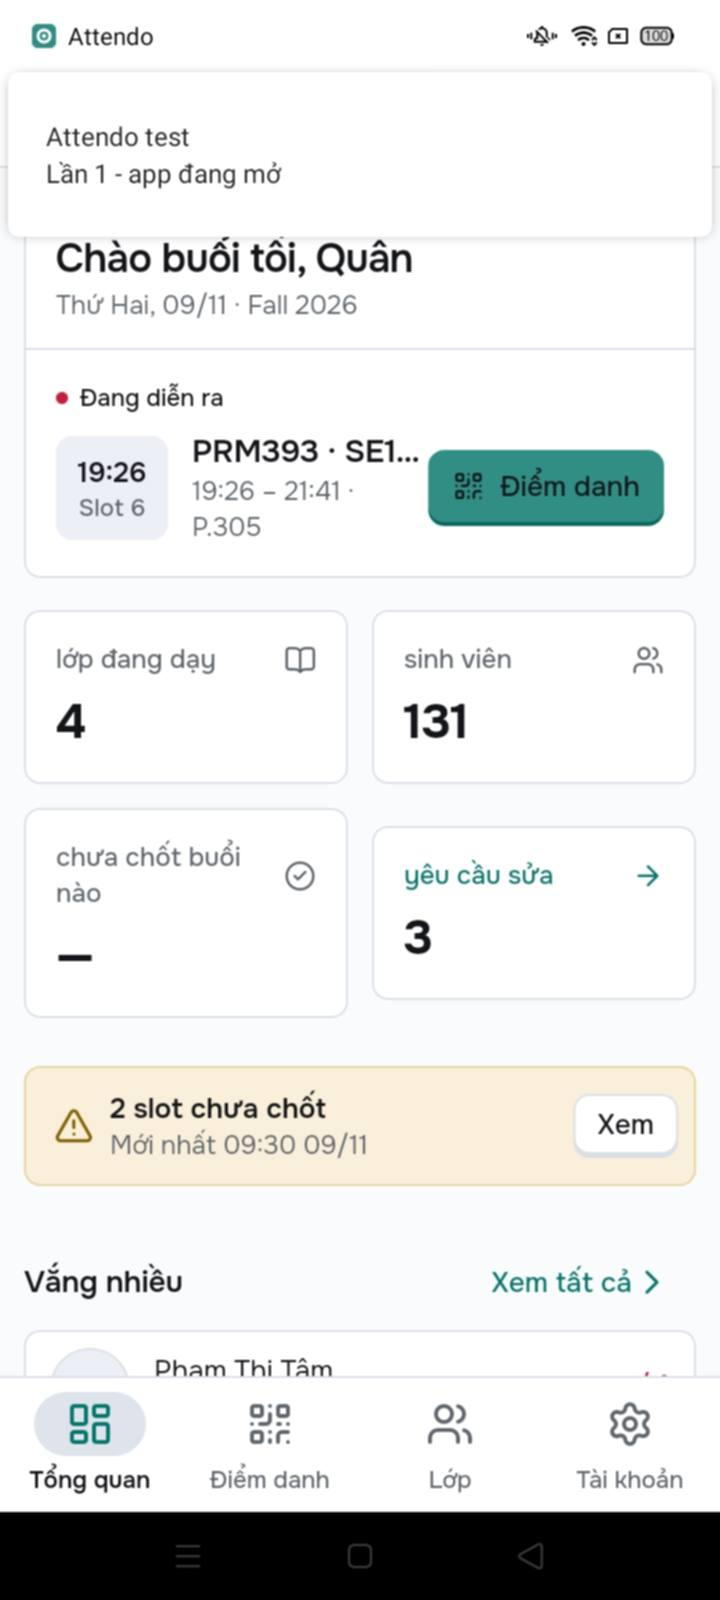
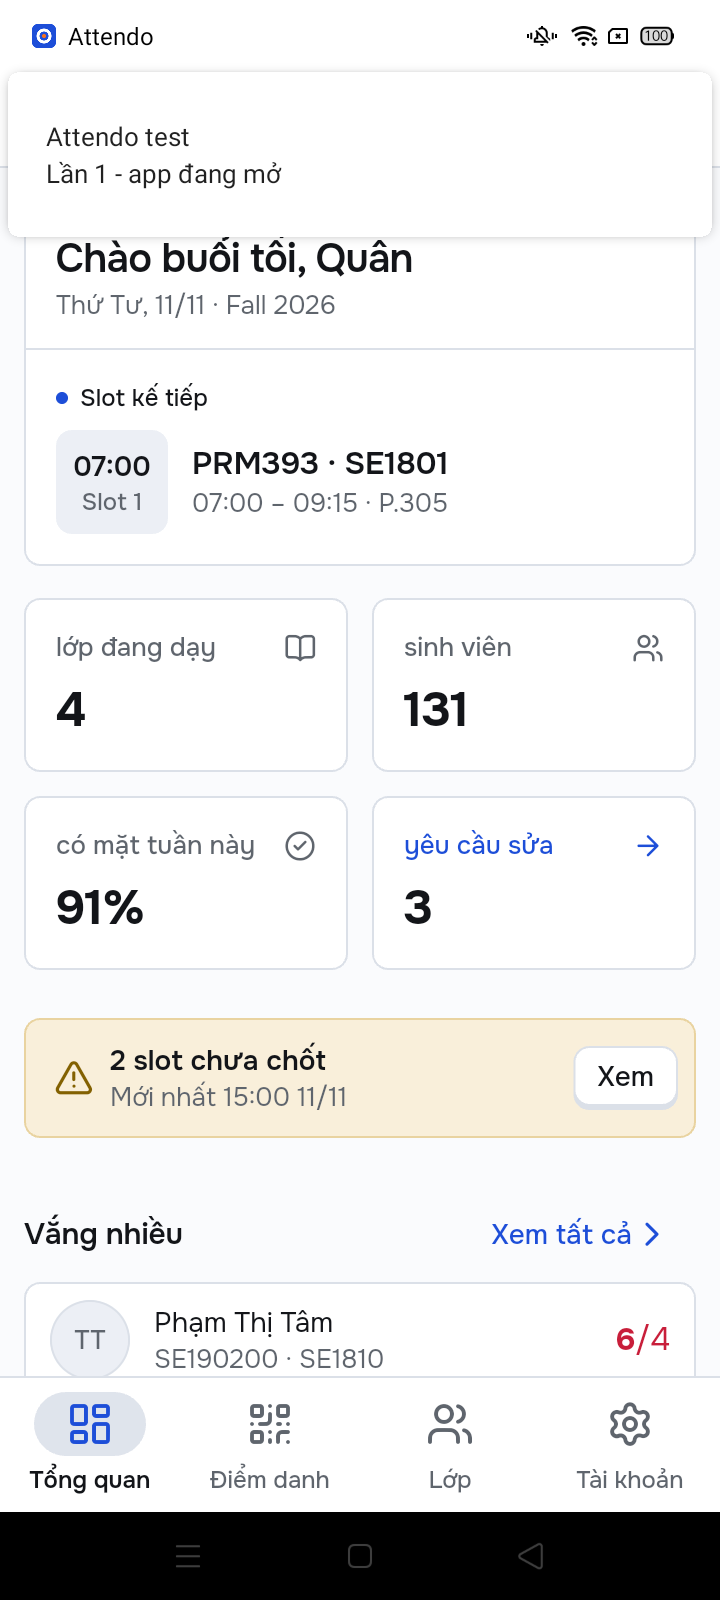
evidence: recapture FCM shots with the cobalt UI

diff --git a/evidence/fcm/README.md b/evidence/fcm/README.md
@@ -1,13 +1,18 @@
 # FCM: thông báo ở 3 trạng thái app (T5)
 
-Chạy thật ngày 09/11/2026, 20:15 đến 20:20, project `attendo-app-2611`, điện thoại Oppo CPH1931 (app Attendo
-đăng nhập quanm@fe.edu.vn). Gửi bằng Firebase console → Cloud Messaging → Compose notification →
-**Send test message** tới FCM token chép từ Khu demo của app. Ảnh do thien chụp.
+Chạy thật ngày 11/11/2026, 21:21 đến 21:35 (giờ Việt Nam), project `attendo-app-2611`, điện thoại Oppo CPH1931
+(Android, app Attendo 1.0.0 bản giao diện "Bản vẽ" cobalt, đăng nhập tài khoản giảng viên demo). Mỗi lần gửi
+chạy workflow GitHub Actions **"Demo: gửi FCM thử"**, workflow này dùng `tool/fcm/send.mjs` (Firebase Admin SDK,
+key nằm trong secret của repo) gửi tới mọi thiết bị của tài khoản đó. Ảnh chụp bằng
+`adb exec-out screencap` trên chính điện thoại, chụp liên tục khoảng 1 giây một khung và giữ khung có thông báo.
 
 | Ảnh | Trạng thái app | Thấy gì |
 |---|---|---|
-| `01-app-dang-mo.png` | Đang mở (foreground) | Thông báo "Lần 1 - app đang mở" hiện đè lên Tổng quan |
-| `02-app-o-nen-banner.png` | Ở nền (bấm Home) | Thông báo "Lần 2 - ở Home" hiện trên màn hình chính, biểu tượng có chấm đỏ |
-| `03-app-o-nen-thanh-thong-bao.png` | Ở nền | Tin "Lần 2" trong thanh thông báo |
-| `04-app-da-tat.png` | Đã tắt (vuốt khỏi đa nhiệm) | Tin "Lần 3 - app đã tắt" trong thanh thông báo, 20:20 |
-| `05-console-soan-thong-bao.png` | | Màn soạn thông báo trên console của project attendo-app-2611 (nội dung Lần 3) |
+| `01-app-dang-mo.png` | Đang mở (foreground) | Thông báo "Lần 1 - app đang mở" hiện đè lên Tổng quan, 21:21:41 (workflow chạy 21:21:27) |
+| `02-app-o-nen-banner.png` | Ở nền (bấm Home) | Thông báo "Lần 2 - ở Home" hiện trên màn hình chính, biểu tượng Attendo có chấm đỏ, 21:26:33 (workflow chạy 21:26:17) |
+| `03-app-o-nen-thanh-thong-bao.png` | Ở nền | Tin "Lần 1" và "Lần 2" trong thanh thông báo, 21:30 |
+| `04-app-da-tat.png` | Đã tắt (vuốt khỏi đa nhiệm, tiến trình app không còn chạy) | Tin "Lần 3 - app đã tắt" trong thanh thông báo, đến lúc 21:31:30 (workflow chạy 21:31:15), chụp 21:35 |
+| `05-console-soan-thong-bao.png` | | Ảnh từ lần chạy 09/11/2026 (gửi bằng Firebase console): màn soạn thông báo trên console của project attendo-app-2611 (nội dung Lần 3) |
+
+Trong ảnh 03 và 04, một thông báo hệ thống của Google (có địa chỉ email cá nhân) đã được làm mờ.
+Không có chỉnh sửa nào khác.
